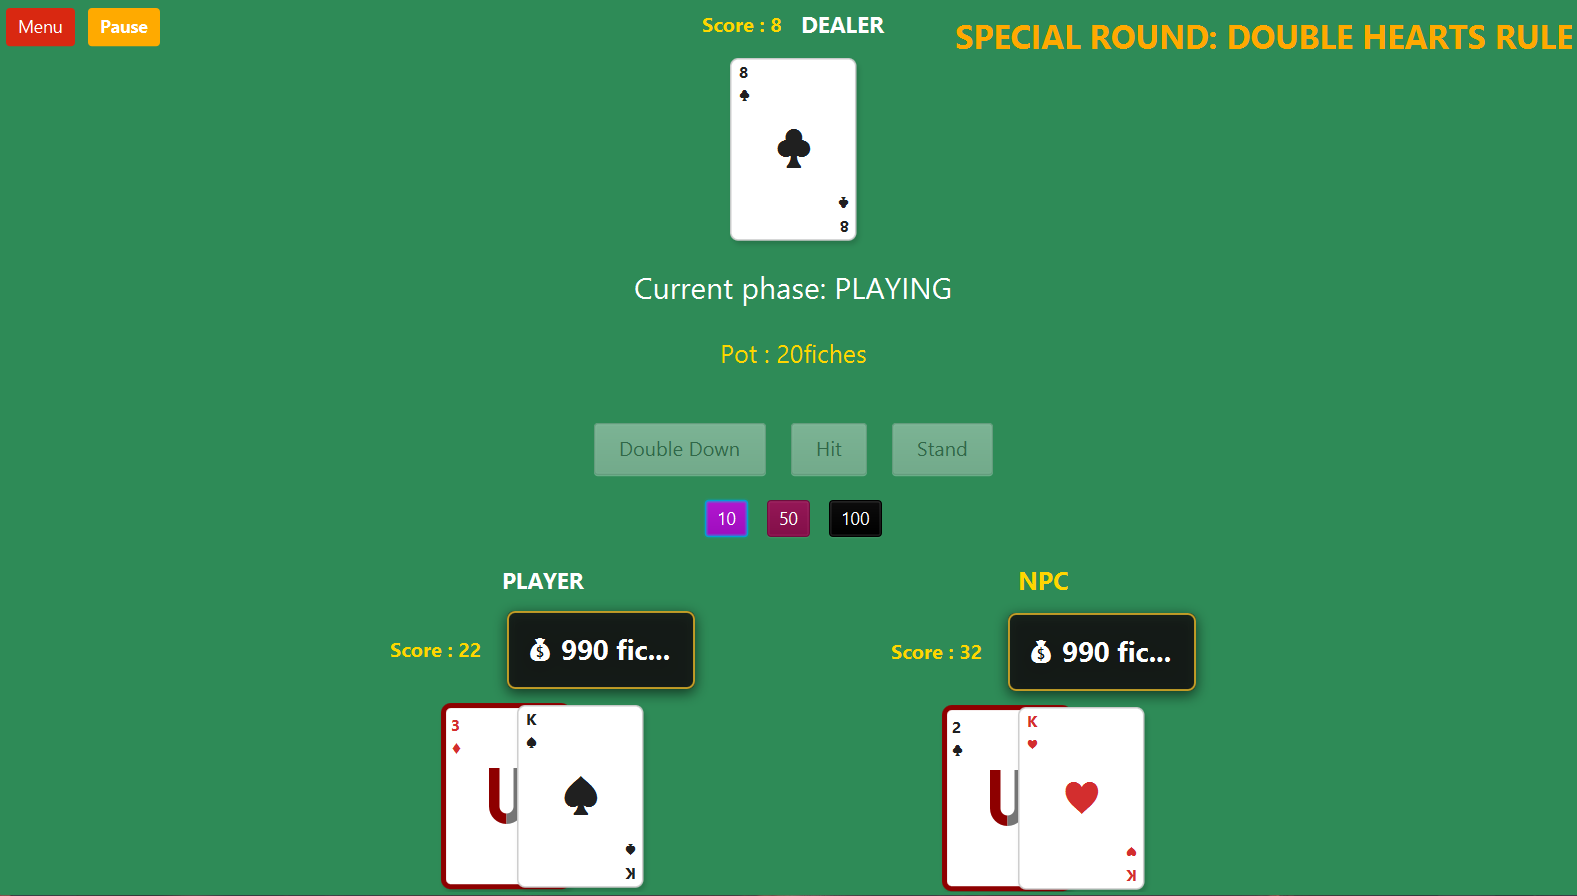
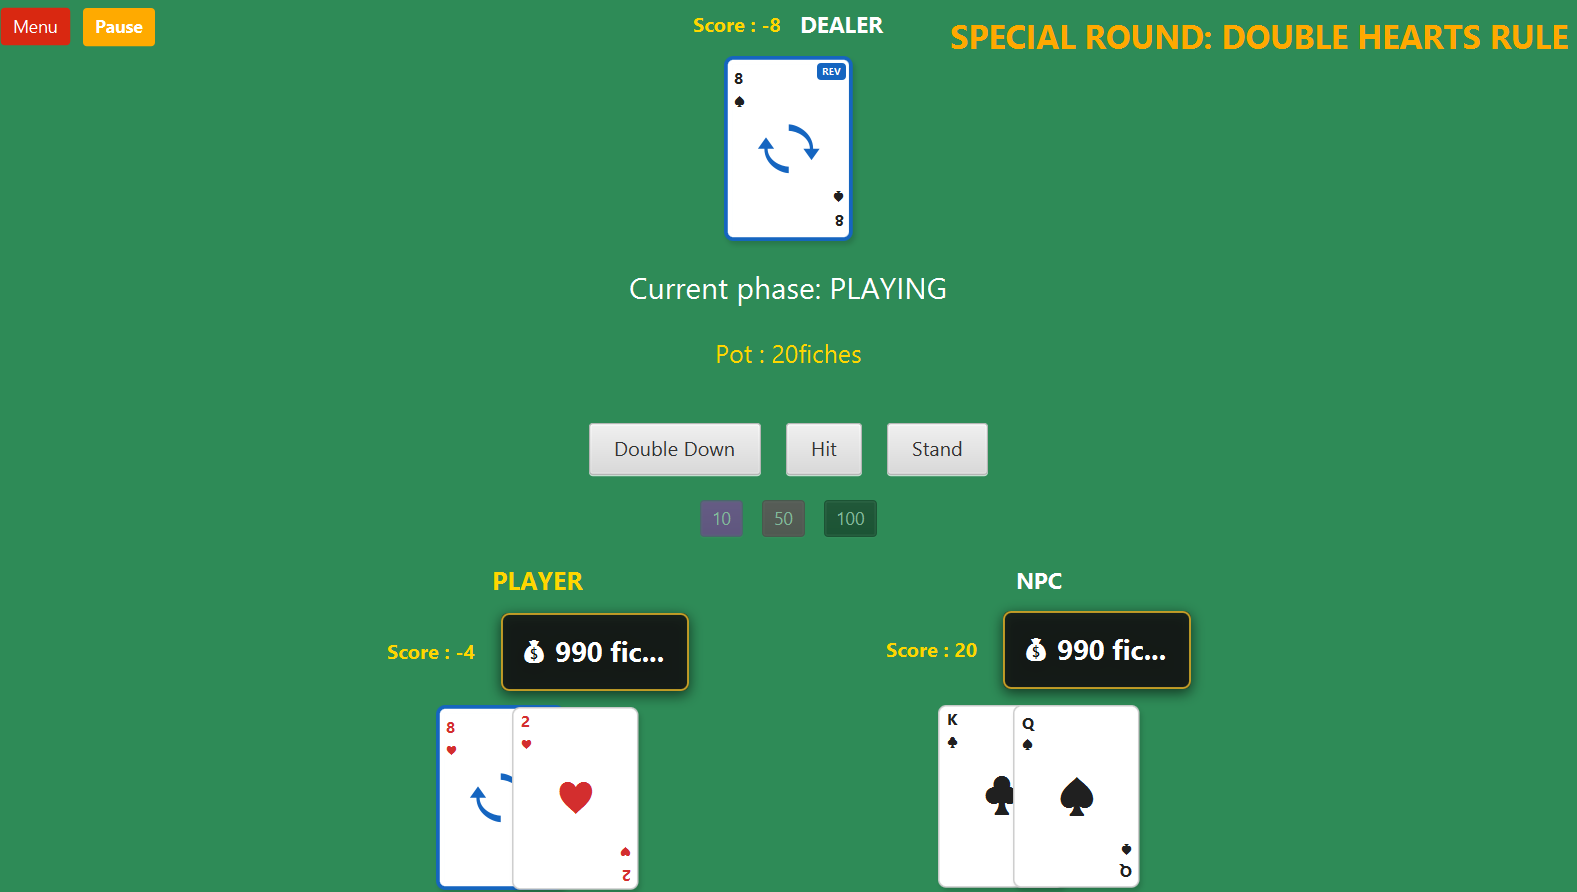
note sviuppo

diff --git a/13-template.tex b/13-template.tex
@@ -30,7 +30,7 @@ Svolgimento della partita:
 \begin{itemize}
 	\item Fase iniziale: Per partecipare, ogni giocatore effettua una puntata base. Il banco distribuisce due carte scoperte a ciascun giocatore e a se stesso (scartando la prima e mostrando la seconda).
 	\item Valore delle carte: Le figure valgono 10, l'Asso vale 1 o 11 a discrezione del giocatore, le altre carte mantengono il loro valore nominale.
-	\item Turno del giocatore: In base al proprio punteggio, il giocatore può chiedere ulteriori carte ("hit") più volte. Se la somma supera 21, il giocatore sballa ed è fuori dalla partita. Il turno termina quando il giocatore decide di fermarsi ("stand").
+	\item Turno del giocatore: In base al proprio punteggio, il giocatore può chiedere ulteriori carte ("hit") più volte, ma con un massimo di carte pescate. Se la somma supera 21, il giocatore sballa ed è fuori dalla partita. Il turno termina quando il giocatore decide di fermarsi ("stand").
 	\item Fase di puntata finale : Terminato il turno di tutti i giocatori, è possibile effettuare ulteriori scommesse scegliendo una somma o raddoppiando il precedente(questo solo se si possegono due carte in mano).
 	\item Turno del banco: Il banco pesca carte fermandosi obbligatoriamente al raggiungimento di un punteggio pari o superiori a 17. Se il banco supera 21, la vincita è contesa tra i giocatori ancora attivi con il punteggio più alto.
 \end{itemize}
@@ -101,12 +101,11 @@ La View si limita a notificare le azioni dell'utente al Controller. Sarà poi il
 \section{Design dettagliato}
 
 
-
 \subsection*{Evelyn Calandrini - Gestione del Tavolo, Valutazione dei Round, Statistiche, View}
 Il contributo si è focalizzato sulla definizione del tavolo che si occupa di riunire il gioco (partecipanti, carte e regole di gioco) occupandosi poi alla fine del round di valutare il vincitore della partita. Si aggiornano così le statistiche salvando il risultato della partita. 
 Inoltre il contributo va nell'interfaccia con la gestione del cambio di finestra dalla situazione di gioco, menu, pausa e statistiche.
 
-\paragraph{Gestone dello Stato e delle puntate}
+\paragraph{Gestione dello Stato e delle puntate}
 \begin{figure}[H]
 	\centering{}
 	\includegraphics[width=0.3\textwidth]{UML-gestioneStatoTavolo.png}
@@ -127,6 +126,7 @@ Il tavolo (TableImpl) verfica lo stato corrente prima di ogni operazione. In que
 	\caption{Schema UML rappresenta l'algoritmo di valutazione (Pattern Strategy)}
 	\label{img:valutazione_risultati}
 \end{figure}
+
 \paragraph{Problema} : La decratazione del vincitore nel BalckJack richiede la comparazione simultanea dei punteggi di tutti i giocatori contro il banco, tenendo conto delle regole che lo differiscono dal gioco tradizionale (mani monocolore, situazioni di pareggio e turni speciali).
 Il problema è fare in modo che il tavolo sia all'oscuro di come sia il calcolo per decretare il vincitore in caso ci sia un cambio di regole futuro.
 \\ 
@@ -202,7 +202,7 @@ Qui emerge chiaramente l'uso architetturale del pattern MVC applicato ai singoli
 \section{Testing automatizzato}
 
 Il processo di testing automatizzato del progetto è stato realizzato per assicurare il corretto funzionamento del codice nel tempo, attraverso una suite di test automatici JUnit.
-La strategia di verifica si è concentrata esclusivamente sul model e sui controllori di flusso, tralasciando volontariamente la view e il controller.
+La strategia di verifica si è concentrata esclusivamente sul model e sui controllori di flusso. Si è scelto di non testare la view e il controller e di concentrarsi a fare i soli test del model per garantire un corretto funzionamento del software.
 La suite di test è stata suddivisa nelle seguenti aree funzionali:
 \begin{itemize}
 	\item \textbf{Test del motore di gioco e tavolo} (\texttt{GameEngineImplTest, TableTest}): I test garantiscono che il ciclo di vita della partita sia corretto, che le transizioni di stato (es. da puntata a gioco) siano valide e che le regole di gioco vengano applicate rigorosamente. 
@@ -215,120 +215,28 @@ La suite di test è stata suddivisa nelle seguenti aree funzionali:
 
 \section{Note di sviluppo}
 
-Questa sezione, come quella riguardante il design dettagliato va svolta \textbf{singolarmente da ogni membro del gruppo}.
-%
-Nella prima parte, ciascuno dovrà mostrare degli esempi di codice particolarmente ben realizzati,
-che dimostrino proefficienza con funzionalità avanzate del linguaggio e capacità di spingersi oltre le librerie mostrate a lezione.
+\subsection*{Evelyn Calandrini}
 
 \begin{itemize}
-	\item \textbf{Elencare} (fare un semplice elenco per punti, non un testo!) le feature \textit{avanzate} del linguaggio e dell'ecosistema Java che sono state
-utilizzate. Le feature di interesse sono:
-	\begin{itemize}
-		\item Progettazione con generici, ad esempio costruzione di nuovi tipi generici, e uso di generici bounded.
-		L'uso di classi generiche di libreria non è considerato avanzato.
-		\item Uso di lambda expressions
-		\item Uso di \texttt{Stream}, di \texttt{Optional} o di altri costrutti funzionali
-		\item Uso di reflection
-		\item Definizione ed uso di nuove annotazioni
-		\item Uso del Java Platform Module System
-		\item Uso di parti della libreria JDK non spiegate a lezione (networking, compressione, parsing XML, eccetera...)
-		\item Uso di librerie di terze parti (incluso JavaFX): Google Guava, Apache Commons...
-	\end{itemize}
-	\item Si faccia molta attenzione a non scrivere banalità, elencando qui features di tipo ``core'', come le eccezioni, le enumerazioni, o le inner class: nessuna di queste è considerata avanzata.
-	\item Per ogni feature avanzata, mostrata, includere:
-	\begin{itemize}
-		\item Nome della feature
-		\item Permalink GitHub al punto nel codice in cui è stata utilizzata
-	\end{itemize}
+    \item \textbf{Utilizzo della libreria JavaFX per l'interfaccia grafica} \\
+    Utilizzata per la gestione strutturale e il rendering del menu principale, del tavolo da gioco e della schermata delle statistiche. 
+    Permalink: \url{https://github.com/evelyncalandrini/OOP25-chaosjack/blob/master/src/main/java/it/unibo/chaosjack/view/impl/ViewManagerImpl.java#L31-L32}
+    \item \textbf{Utilizzo di lambda expression per i listener di eventi sulle properties} \\
+    Usate per implementare in modo compatto i listener di ridimensionamento della scena (\texttt{widthProperty} e \texttt{heightProperty}). 
+    Permalink: \url{https://github.com/evelyncalandrini/OOP25-chaosjack/blob/master/src/main/java/it/unibo/chaosjack/view/impl/ViewManagerImpl.java#L47-L48}
+    \item \textbf{Utilizzo di Stream API e costrutti funzionali (uso concatenato di filter, map, findFirst e ifPresent con Optional)} \\
+    Utilizzati per l'ispezione sicura della lista dei giocatori del motore di gioco e per l'aggiornamento del saldo dei rispettivi wallet. 
+    Permalink: \url{https://github.com/evelyncalandrini/OOP25-chaosjack/blob/master/src/main/java/it/unibo/chaosjack/model/impl/TableImpl.java#L107-L111}
+    \item \textbf{Utilizzo del costrutto avanzato Switch Expressions} \\
+    Utilizzato all'interno della gestione delle statistiche per smistare e aggiornare i contatori storici in base all'esito del round (\texttt{Outcome}). 
+    Permalink: \url{https://github.com/evelyncalandrini/OOP25-chaosjack/blob/master/src/main/java/it/unibo/chaosjack/model/impl/StatisticsImpl.java#L24-L44}
+    \item \textbf{Utilizzo di riferimenti a metodi (Method Reference) e interfacce funzionali sulle Map} \\
+    Utilizzati in combinazione con il metodo \texttt{Map.merge()} e \texttt{Integer::sum} per gestire e incrementare i piatti delle puntate in modo atomico. 
+    Permalink: \url{https://github.com/evelyncalandrini/OOP25-chaosjack/blob/master/src/main/java/it/unibo/chaosjack/model/impl/TableImpl.java#L87}
+    \item \textbf{Utilizzo di annotazioni di librerie di terze parti per l'analisi statica (SpotBugs / FindBugs)} \\
+    Utilizzata l'annotazione \texttt{@SuppressFBWarnings} sul costruttore del tavolo per documentare l'esposizione intenzionale del riferimento al \texttt{GameEngine}. 
+    Permalink: \url{https://github.com/evelyncalandrini/OOP25-chaosjack/blob/master/src/main/java/it/unibo/chaosjack/model/impl/TableImpl.java#L37-L40}
 \end{itemize}
-
-In questa sezione, \textit{dopo l'elenco},
-vanno menzionati ed attributi con precisione eventuali pezzi di codice ``riadattati'' (o scopiazzati...) da Internet o da altri progetti,
-pratica che tolleriamo ma che non raccomandiamo.
-%
-Si rammenta agli studenti che non è consentito partire da progetti esistenti e procedere per modifiche successive.
-%
-Si ricorda anche che i docenti hanno in mano strumenti antiplagio piuttosto raffinati e che ``capiscono'' il codice e la storia delle modifiche del progetto,
-per cui tecniche banali come cambiare nomi (di classi, metodi, campi, parametri, o variabili locali),
-aggiungere o togliere commenti,
-oppure riordinare i membri di una classe vengono individuate senza problemi.
-%
-Le regole del progetto spiegano in dettaglio l'approccio dei docenti verso atti gravi come il plagiarismo.
-
-I pattern di design \textbf{non} vanno messi qui.
-%
-L'uso di pattern di design (come suggerisce il nome) è un aspetto avanzato di design, non di implementazione,
-e non va in questa sezione.
-
-\subsection*{Elementi positivi}
-
-\begin{itemize}
-	\item Si elencano gli aspetti avanzati di linguaggio che sono stati impiegati
-	\item Si elencano le librerie che sono state utilizzate
-	\item Per ciascun elemento, si fornisce un permalink
-	\item Ogni permalink fa riferimento ad uno snippet di codice scritto dall'autore della sezione (i docenti verificheranno usando \texttt{git blame})
-	\item Se si è utilizzato un particolare algoritmo, se ne cita la fonte originale.
-	Ad esempio, se si è usato Mersenne Twister per la generazione di numeri pseudo-random, si cita \cite{mersenne}.
-	\item Si identificano parti di codice prese da altri progetti, dal web, o comunque scritte in forma originale da altre persone.
-	In tal senso, si ricorda che agli ingegneri non è richiesto di re-inventare la ruota continuamente:
-	se si cita debitamente la sorgente è tollerato fare uso di di snippet di codice open source per risolvere velocemente problemi non banali.
-	Nel caso in cui si usino snippet di codice di qualità discutibile,
-	oltre a menzionarne l'autore originale si invitano gli studenti ad adeguare tali parti di codice agli standard e allo stile del progetto.
-	Contestualmente, si fa presente che è largamente meglio fare uso di una libreria che copiarsi pezzi di codice:
-	qualora vi sia scelta (e tipicamente c'è), si preferisca la prima via.
-\end{itemize}
-
-\subsection*{Elementi negativi}
-\begin{itemize}
-	\item Si elencano feature core del linguaggio invece di quelle segnalate. Esempi di feature core da non menzionare sono:
-    \begin{itemize}
-        \item eccezioni;
-        \item classi innestate;
-        \item enumerazioni;
-        \item interfacce.
-    \end{itemize}
-	\item Si elencano applicazioni di terze parti (peggio se per usarle occorre licenza, e lo studente ne è sprovvisto) che non c'entrano nulla con lo sviluppo, ad esempio:
-    \begin{itemize}
-        \item Editor di grafica vettoriale come Inkscape o Adobe Illustrator;
-        \item Editor di grafica scalare come GIMP o Adobe Photoshop;
-        \item Editor di audio come Audacity;
-        \item Strumenti di design dell'interfaccia grafica come SceneBuilder: il codice è in ogni caso inteso come sviluppato da voi.
-    \end{itemize}
-	\item Si descrivono aspetti di scarsa rilevanza, o si scende in dettagli inutili.
-	\item Sono presenti parti di codice sviluppate originalmente da altri che non vengono debitamente segnalate.
-	In tal senso, si ricorda agli studenti che i docenti hanno accesso a tutti i progetti degli anni passati,
-	a Stack Overflow,
-	ai principali blog di sviluppatori ed esperti Java,
-	ai blog dedicati allo sviluppo di soluzioni e applicazioni
-	(inclusi blog dedicati ad Android e allo sviluppo di videogame),
-	nonché ai vari GitHub, GitLab, e Bitbucket.
-	Conseguentemente, è \emph{molto} conveniente \emph{citare} una fonte ed usarla invece di tentare di spacciare per proprio il lavoro di altri.
-	\item Si elencano design pattern
-\end{itemize}
-
-\subsection{Esempio}
-
-\subsubsection{Utilizzo della libreria SLF4J}
-
-Utilizzata in vari punti.
-Un esempio è \url{https://github.com/AlchemistSimulator/Alchemist/blob/5c17f8b76920c78d955d478864ac1f11508ed9ad/alchemist-swingui/src/main/java/it/unibo/alchemist/boundary/swingui/effect/impl/EffectBuilder.java#L49}
-
-\subsubsection{Utilizzo di \texttt{LoadingCache} dalla libreria Google Guava}
-
-Permalink: \url{https://github.com/AlchemistSimulator/Alchemist/blob/d8a1799027d7d685569e15316a32e6394632ce71/alchemist-incarnation-protelis/src/main/java/it/unibo/alchemist/protelis/AlchemistExecutionContext.java#L141-L143}
-
-\subsubsection{Utilizzo di \texttt{Stream} e lambda expressions}
-
-Usate pervasivamente. Il seguente è un singolo esempio.
-Permalink: \url{https://github.com/AlchemistSimulator/Alchemist/blob/d8a1799027d7d685569e15316a32e6394632ce71/alchemist-incarnation-protelis/src/main/java/it/unibo/alchemist/model/ProtelisIncarnation.java#L98-L120}
-
-\subsubsection{Scrittura di metodo generico con parametri contravarianti}
-
-Permalink: \url{https://github.com/AlchemistSimulator/Alchemist/blob/d8a1799027d7d685569e15316a32e6394632ce71/alchemist-incarnation-protelis/src/main/java/it/unibo/alchemist/protelis/AlchemistExecutionContext.java#L141-L143}
-
-\subsubsection{Protezione da corse critiche usando \texttt{Semaphore}}
-
-Permalink: \url{https://github.com/AlchemistSimulator/Alchemist/blob/d8a1799027d7d685569e15316a32e6394632ce71/alchemist-incarnation-protelis/src/main/java/it/unibo/alchemist/model/ProtelisIncarnation.java#L388-L440}
 
 
 \chapter{Commenti finali}
@@ -356,67 +264,44 @@ ma anche progettare correttamente il software, comunicare in modo efficace con g
 
 \begin{figure}[H]
 	\centering{}
-	\includegraphics[width=0.3\textwidth]{schermataPrincipale.png}
+	\includegraphics[width=0.8\textwidth]{schermataPrincipale.png}
 	\caption{Schermata principale del gioco}
 	\label{img:schermata}
 \end{figure}
 
 All'avvio dell'applicazione viene mostrato il menu principale, dal quale l'utente può scegliere se avviare una nuova partita, visualizzare le statistiche oppure uscire dall'applicazione.
-Da ciascuna schermata è sempre possibile tornare al menu principale premendo il pulsante Menù.
-Selezionando il pulsante Play, viene avviata una nuova partita. 
+Da qualsiasi schermata successiva è sempre possibile tornare al menu principale premendo il pulsante Menù.
+Selezionando il pulsante Play, viene avviata una nuova partita.
+Una volta avviata la partita, la schermata di gioco mostra il tavolo completo: sono visibili il dealer e tutti i giocatori seduti, ciascuno con il rispettivo portafoglio. Per facilitare la comprensione del flusso di gioco:
+\begin{itemize}
+    \item Il nome del giocatore il cui turno è attualmente in corso viene evidenziato.
+    \item Accanto alle carte di ogni giocatore viene mostrato il punteggio attuale della mano, semplificando il calcolo durante i round con regole speciali.
+    \item Al centro della schermata vengono costantemente aggiornati la fase di gioco corrente e il valore totale del piatto (pot).
+    \item Nella parte in alto a destra viene indicato l'eventuale svolgimento di un round speciale.
+\end{itemize}
 
-Durante il gioco sono disponibili due pulsanti principali:
+Inoltre, durante la partita sono disponibili due pulsanti principali:
 \begin{itemize}
 	\item Menu = che consente di tornare alla schermata principale;
 	\item Pausa = che permette di sospendere la partita. Da questa schermata l'utente può scegliere se riprendere il round in corso, ricominciare il round dall'inizio oppure tornare direttamente al menu principale.
 \end{itemize}
-Nella schermata di gioco sono visibili tutti i giocatori seduti al tavolo, ciascuno con il proprio portafoglio, oltre al dealer. Il nome del giocatore il cui turno è attualmente in corso viene evidenziato per facilitare la comprensione dello stato della partita. Potrà visualizzare anche il punteggio attuale in mano per facilitare 
-il calcolo con le carte e round speciali.
-Al centro della schermata vengono mostrate la fase di gioco corrente e il valore del piatto delle scommesse. Qualora sia in corso un round speciale, il relativo nome viene visualizzato nella parte superiore destra dell'interfaccia.
-L'utente può interagire con il gioco utilizzando i pulsanti disponibili per effettuare le proprie mosse e gestire le scommesse. All'inizio dopo aver effettuato la prima scomessa verranno distribuite le carte e poi l'utente continuerà a giocare. Al termine della partita viene mostrato un messaggio che indica il vincitore.
+
 \begin{figure}[H]
 	\centering{}
-	\includegraphics[width=0.3\textwidth]{schermataGioco.png}
+	\includegraphics[width=0.8\textwidth]{schermataGioco.png}
 	\caption{Schermata di gioco in corso}
 	\label{img:schermataGioco}
 \end{figure}
-da sistemare 
+
+
 \chapter{Esercitazioni di laboratorio}
 
-In questo capitolo ciascuno studente elenca gli esercizi di laboratorio che ha svolto
-(se ne ha svolti),
-elencando i permalink dei post sul forum dove è avvenuta la consegna.
-%
-Questa sezione potrebbe essere processata da strumenti automatici,
-per cui link a oggetti diversi dal permalink della consegna,
-errori nell'email o nel nome del laboratorio possono portare ad ignorare alcune consegne,
-si raccomanda la massima precisione.
-
-\section*{Esempio}
-
-\subsection{[email redacted]}
+\subsection*{[email redacted]}
 
 \begin{itemize}
- \item Laboratorio 04: \url{https://virtuale.unibo.it/mod/forum/discuss.php?d=12345#p123456}
- \item Laboratorio 06: \url{https://virtuale.unibo.it/mod/forum/discuss.php?d=22222#p222222}
- \item Laboratorio 09: \url{https://virtuale.unibo.it/mod/forum/discuss.php?d=99999#p999999}
+ \item Laboratorio 07: \url{https://virtuale.unibo.it/mod/forum/discuss.php?d=207193#p285016}
+ \item Laboratorio 09: \url{https://virtuale.unibo.it/mod/forum/discuss.php?d=208718#p287284}
 \end{itemize}
 
-\subsection{[email redacted]}
-
-\begin{itemize}
- \item Laboratorio 04: \url{https://virtuale.unibo.it/mod/forum/discuss.php?d=12345#p123456}
- \item Laboratorio 05: \url{https://virtuale.unibo.it/mod/forum/discuss.php?d=22222#p222222}
- \item Laboratorio 06: \url{https://virtuale.unibo.it/mod/forum/discuss.php?d=99999#p999999}
- \item Laboratorio 07: \url{https://virtuale.unibo.it/mod/forum/discuss.php?d=22222#p222222}
- \item Laboratorio 08: \url{https://virtuale.unibo.it/mod/forum/discuss.php?d=99999#p999999}
- \item Laboratorio 09: \url{https://virtuale.unibo.it/mod/forum/discuss.php?d=22222#p222222}
- \item Laboratorio 10: \url{https://virtuale.unibo.it/mod/forum/discuss.php?d=99999#p999999}
- \item Laboratorio 11: \url{https://virtuale.unibo.it/mod/forum/discuss.php?d=22222#p222222}
-\end{itemize}
-
-
-\bibliographystyle{alpha}
-\bibliography{13-template}
 
 \end{document}